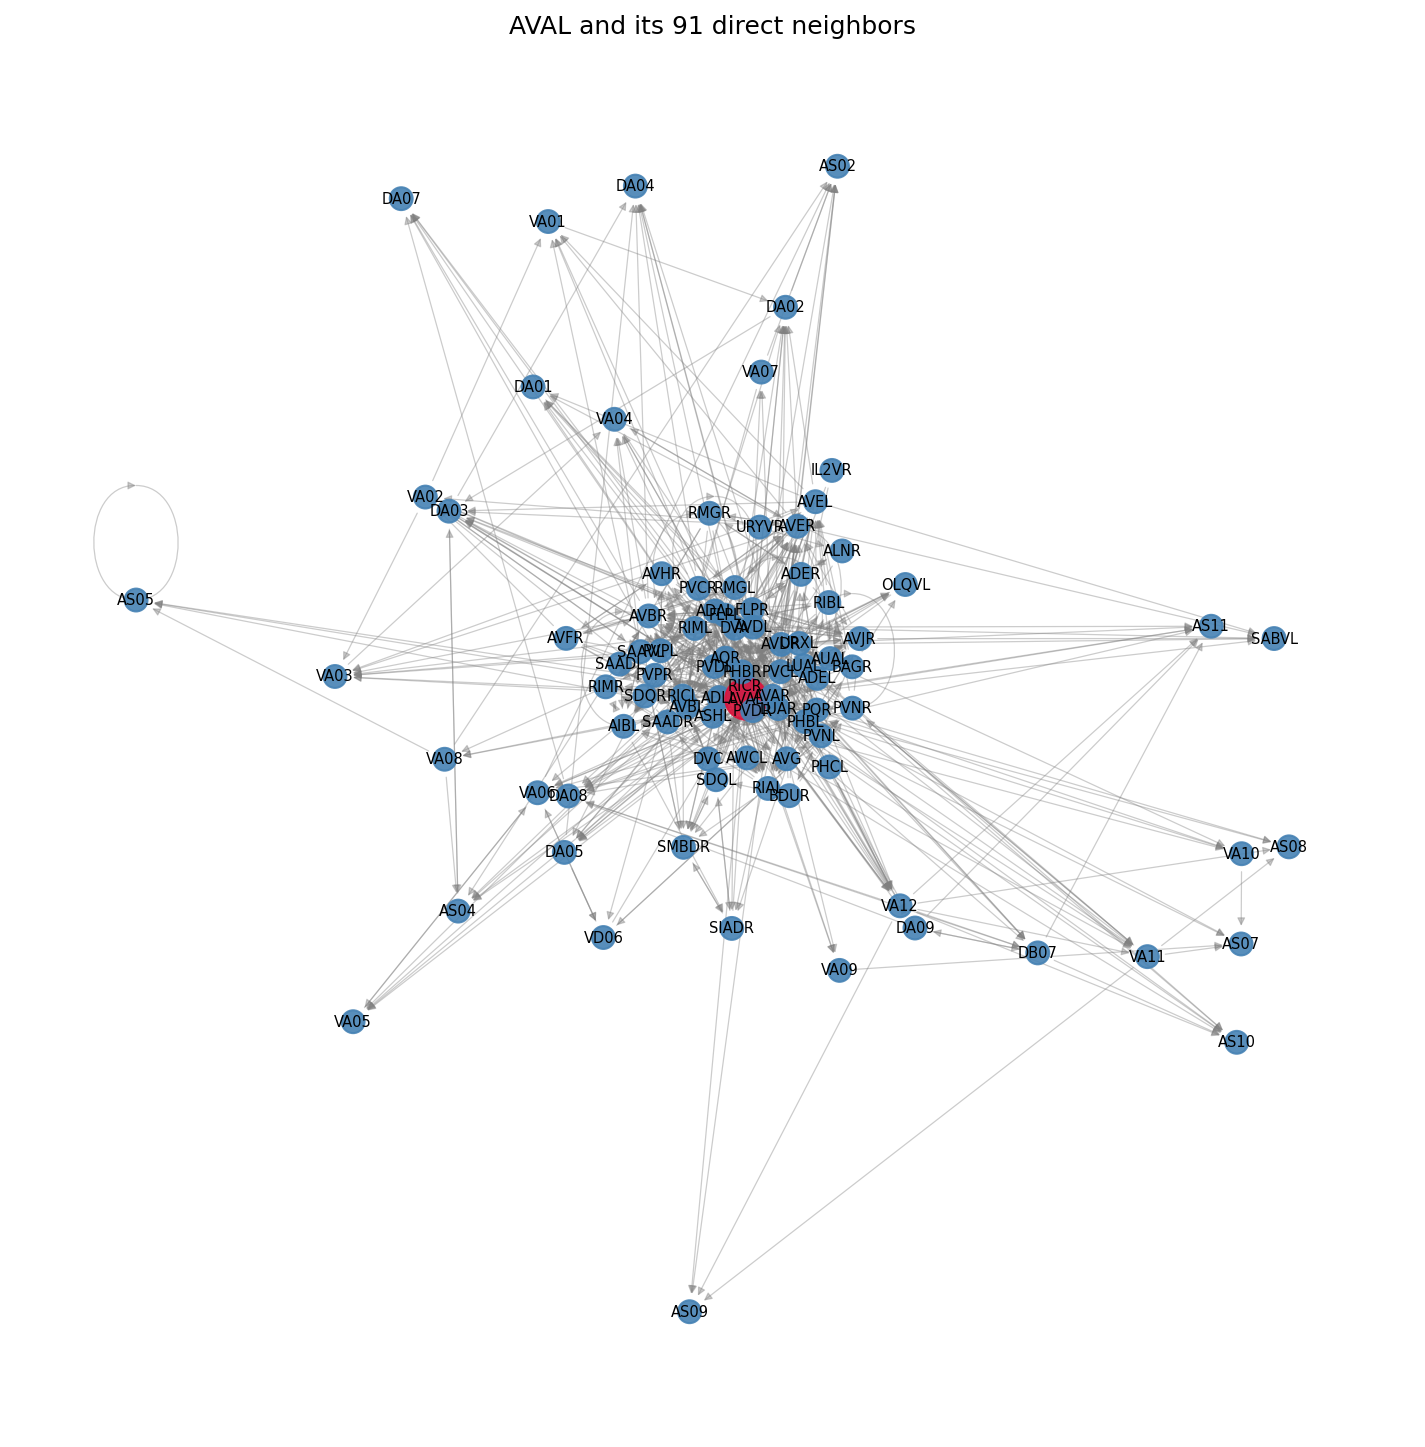
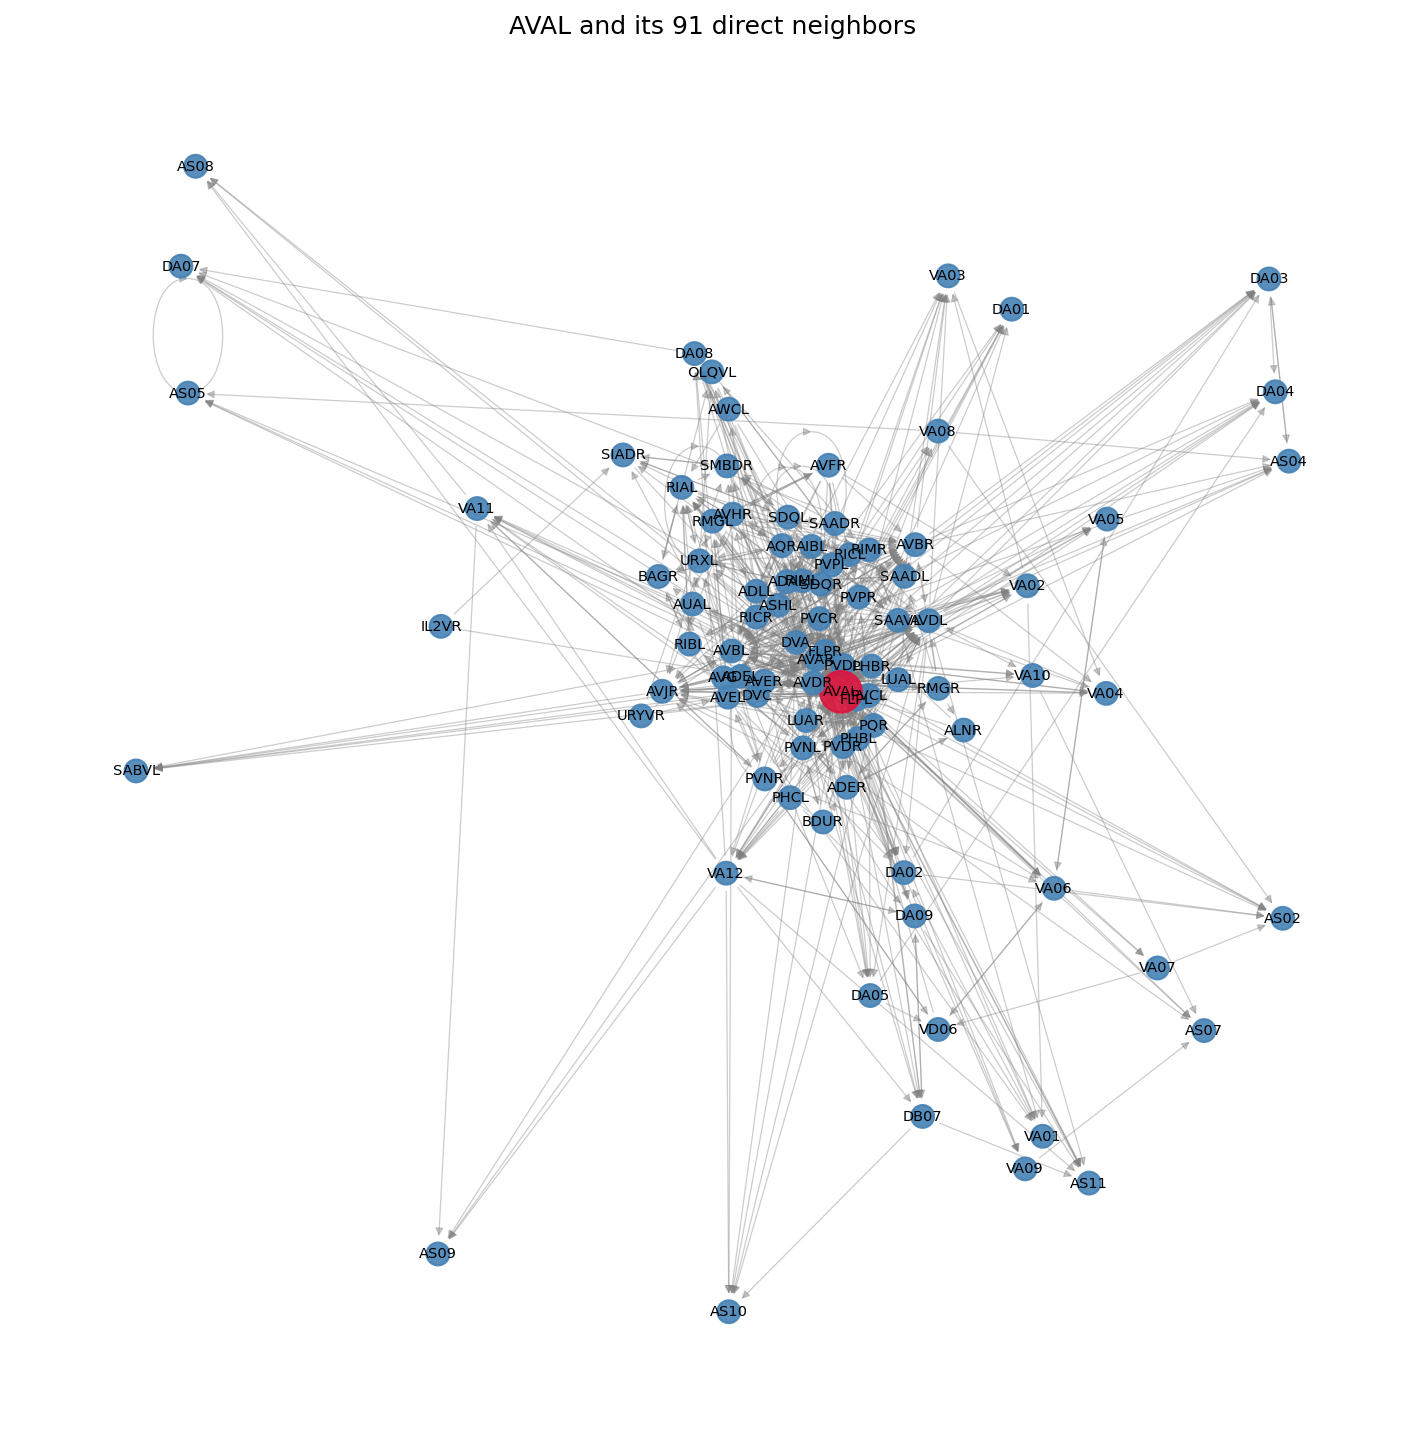
working knockout simulator with normalized weights

diff --git a/connectome_model.py b/connectome_model.py
@@ -107,16 +107,19 @@ def graph_to_matrix(G):
 
     return W, nodes
 
+#row-normalize so each neuron's total input sums to 1
+#rows with zero input will stay all zeros (no division by zero)
+def normalize_weights(W):
+    row_sums = W.sum(axis=1, keepdims=True) #shape (n, 1)
+    row_sums[row_sums == 0] = 1.0 #avoid division by zero for neurons with no inputs
+    W_normalized = W / row_sums
+
+    return W_normalized
 
 df = load_connectome(output_path)
 G = build_connectome_graph(df)
 W, nodes = graph_to_matrix(G)
-
-print("Matrix shape:", W.shape)
-print("Number of nodes:", len(nodes))
-print("Non-zero entries in W:", np.count_nonzero(W))
-print("Edges in graph:", G.number_of_edges())
-
+W = normalize_weights(W)
 import matplotlib.pyplot as plt
 
 #visualize the graph - this is a dense graph so just showing nodes and edges without labels
@@ -136,7 +139,7 @@ plt.savefig(results_dir / "connectome_full.png", dpi=150, bbox_inches="tight")
 plt.close()
 print("Saved connectome_full.png")
 
-# choose a focus neuron and visualize its neighborhood (directly connected neurons)
+#choose a focus neuron and visualize its neighborhood (directly connected neurons)
 focus = "AVAL"
 neighbors = set(G.successors(focus)) | set(G.predecessors(focus))
 sub = G.subgraph({focus} | neighbors)
@@ -158,3 +161,81 @@ plt.axis("off")
 plt.savefig(results_dir / "neighborhood_AVAL.png", dpi=150, bbox_inches="tight")
 plt.close()
 print(f"Saved neighborhood_AVAL.png ({len(neighbors)} neighbors)")
+
+#THE SIMULATOR
+#define all sensory neurons in the connectome
+#TODO: verify this list with the literature 
+sensory_neurons = [
+    "ALML", "ALMR", "AVM", "PLML", "PLMR",            #gentle touch
+    "ASEL", "ASER", "ASHL", "ASHR",                    #chemosensation
+    "AWAL", "AWAR", "AWBL", "AWBR", "AWCL", "AWCR",     #odor sensing
+    "AFDL", "AFDR",                                     #thermosensation
+    "AQR", "PQR", "URXL", "URXR",                       #oxygen sensing
+    "ADLL", "ADLR", "ASJL", "ASJR", "ASKL", "ASKR",    #other sensory
+]
+
+#iterate linear-threshold dynamics until activity converges
+def run_dynamics(W, nodes, sensory_idx, knockout_idx=None, max_iter=500, tol=1e-6):
+    #returns the steady-state activity vector
+    #pass knockput_idx=None for healthy condition
+    #an index for knockout
+
+    n = len(nodes)
+    x = np.zeros(n) #initial activity is zero
+    x[sensory_idx] = 1.0 #activate sensory neurons
+
+    for i in range(max_iter):
+        #weigjted input, squashed to range [0, 1] by tanh nonlinearity
+        x_new = np.tanh(W @ x) #update activity based on inputs and weights
+        x_new[sensory_idx] = 1.0 #keep sensory neurons active
+
+        if knockout_idx is not None:
+            x_new[knockout_idx] = 0.0 #dead neuron sends no signal
+
+        if np.sum(np.abs(x_new - x)) < tol: #converged or not?
+            x = x_new
+            break
+        x = x_new
+
+    return x
+
+#comapre a knocked-out steady state to the healthy one
+def cascade_severity(baseline, perturbed, fail_threshold=0.1):
+    #returns both severity measures as a dictionary
+    drop = baseline - perturbed
+    total_activity_lost = float(np.sum(np.clip(drop, 0, None))) #total activity lost across all neurons
+
+    failed_neurons = (baseline >= fail_threshold) & (perturbed < fail_threshold)
+    failure_count = int(np.sum(failed_neurons)) #number of neurons that fail (drop below threshold
+    
+    return {"total_activity_lost": total_activity_lost, "failure_count": failure_count}
+
+
+index = {n: i for i, n in enumerate(nodes)}
+
+print("Matrix shape:", W.shape, "Non-zero entries in W:", np.count_nonzero(W), "Edges in graph:", G.number_of_edges())
+
+#sensory neurons present in our graph
+sensory_idx = [index[s] for s in sensory_neurons if s in index]
+print("Sensory neurons in graph:", [nodes[i] for i in sensory_idx], "Count:", len(sensory_idx))
+
+#healthy steady state
+baseline = run_dynamics(W, nodes, sensory_idx)
+print("Baseline total activity:", np.sum(baseline))
+
+#knock out AVAL and see the effect
+k = index["AVAL"]
+perturbed = run_dynamics(W, nodes, sensory_idx, knockout_idx=k)
+print("AVAL knockout severity:", cascade_severity(baseline, perturbed))
+
+#compare knocout of other neurons
+print()
+print("Comparing knockouts of other neurons:")
+for name in ["AVAL", "AVAR", "AVBL", "PVCL", "ASEL", "RIH", "RIS", "VA01", "DA01"]:
+    if name not in index:
+        print(f"{name} not in graph, skipping")
+        continue
+    m = run_dynamics(W, nodes, sensory_idx, knockout_idx=index[name])
+    s = cascade_severity(baseline, m)
+    print(" ", name, "- activity_lost =", round(s["total_activity_lost"], 2),
+          ", failures =", s["failure_count"])